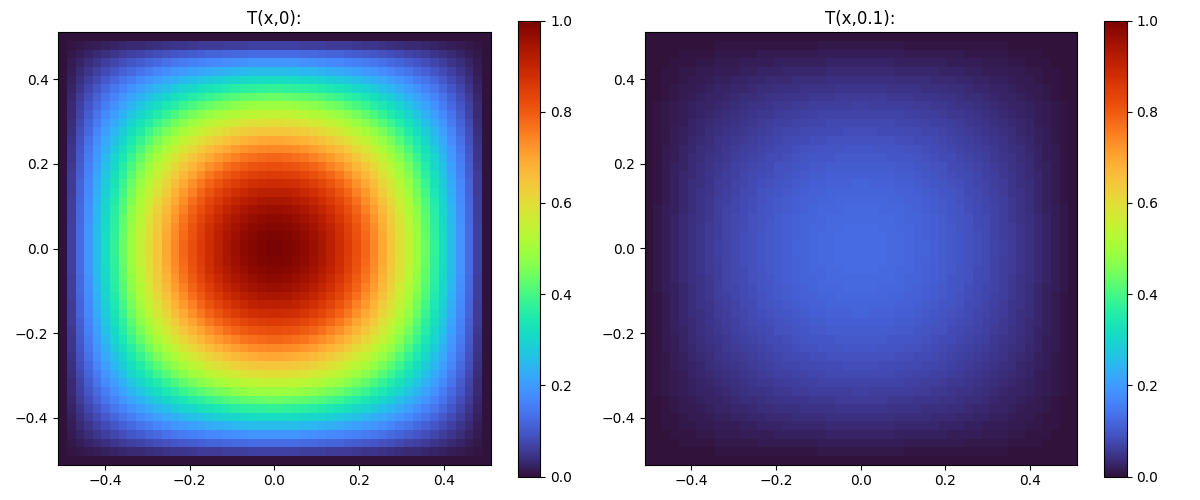
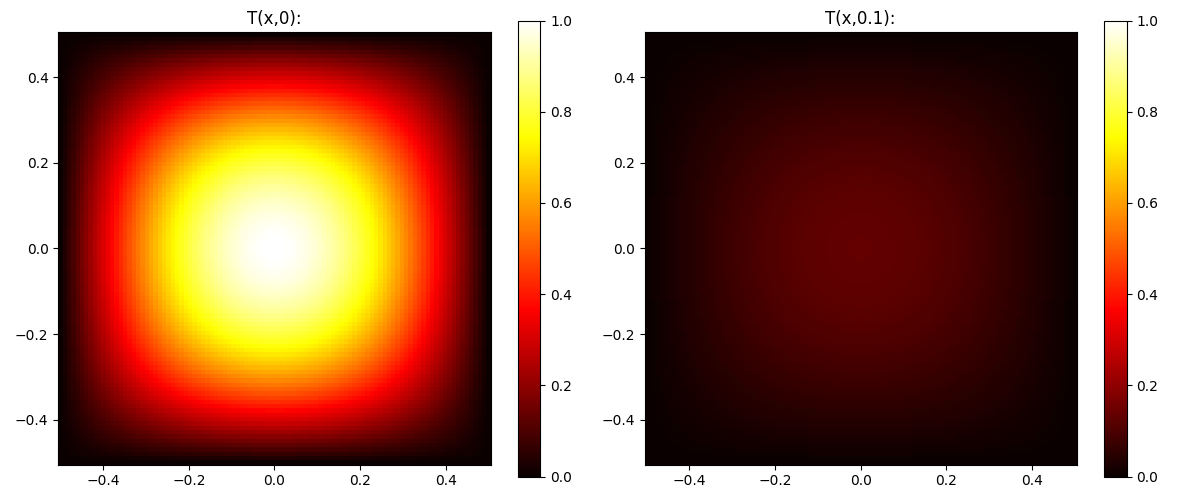
remove redundant code + nicer pltos

diff --git a/heat2D.py b/heat2D.py
@@ -14,12 +14,11 @@ import matplotlib.pyplot as plt
 alpha = 1
 finish_time = 0.1
 xlen, ylen = 1, 1
-N = 50
+N = 100
 nx, ny = xlen*N, ylen*N
 dx = xlen/nx
 dy = ylen/ny
 dt = dx*dx*dy*dy/alpha/(dx*dx+dy*dy)/2
-num_time_steps = int(finish_time / dt)
 
 ### Initial Condition ###
 x = np.linspace(-xlen/2, xlen/2, nx)
@@ -37,14 +36,6 @@ T_bot, T_top, T_left, T_right = 0, 0, 0, 0
 T = T_init.copy()
 
 ### Numerical Solution ###
-for i in range(nx):
-    T[i, 0] = T_bot
-    T[i, ny-1] = T_top
-
-for j in range(ny):
-    T[0, j] = T_left
-    T[nx-1, j] = T_right
-
 alpha_x = alpha * dt/dx/dx
 alpha_y = alpha * dt/dy/dy
 t = 0
@@ -80,13 +71,13 @@ print(f"{err_l2=:.6}; {rel_l2=:.6}")
 fig, (ax1, ax2) = plt.subplots(1, 2, figsize=(12, 5))
 
 # Plot initial condition
-im1 = ax1.pcolormesh(X, Y, T_init, vmax=1, cmap="turbo")
+im1 = ax1.pcolormesh(X, Y, T_init, vmax=1, cmap="hot")
 fig.colorbar(im1, ax=ax1)
 ax1.set_aspect('equal', adjustable='box')
 ax1.set_title(f"T(x,0):")
 
 # Plot final numerical solution
-im2 = ax2.pcolormesh(X, Y, T, vmax=1, cmap="turbo")
+im2 = ax2.pcolormesh(X, Y, T, vmax=1, cmap="hot")
 fig.colorbar(im2, ax=ax2)
 ax2.set_aspect('equal', adjustable='box')
 ax2.set_title(f"T(x,{t:.3}):")
